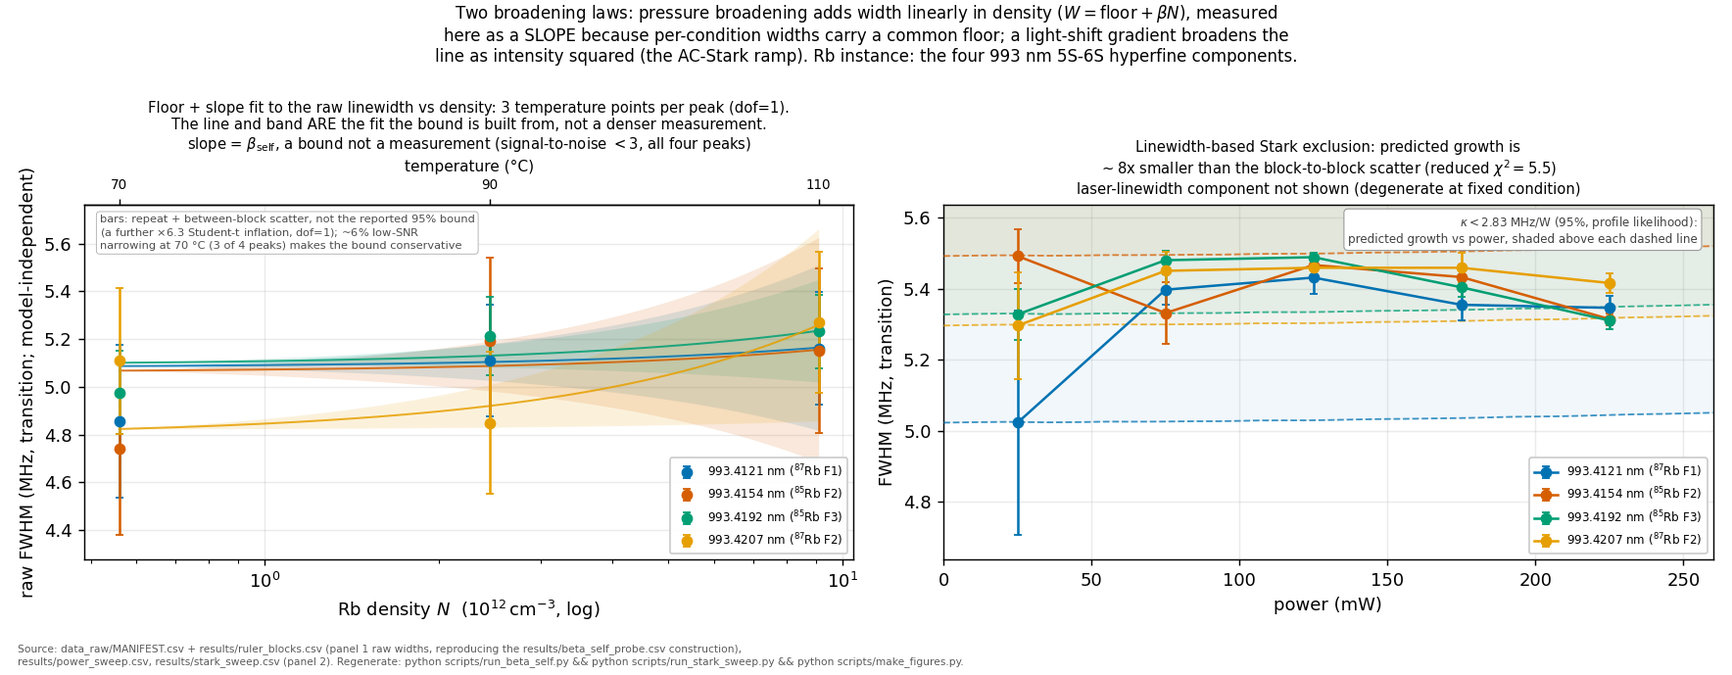
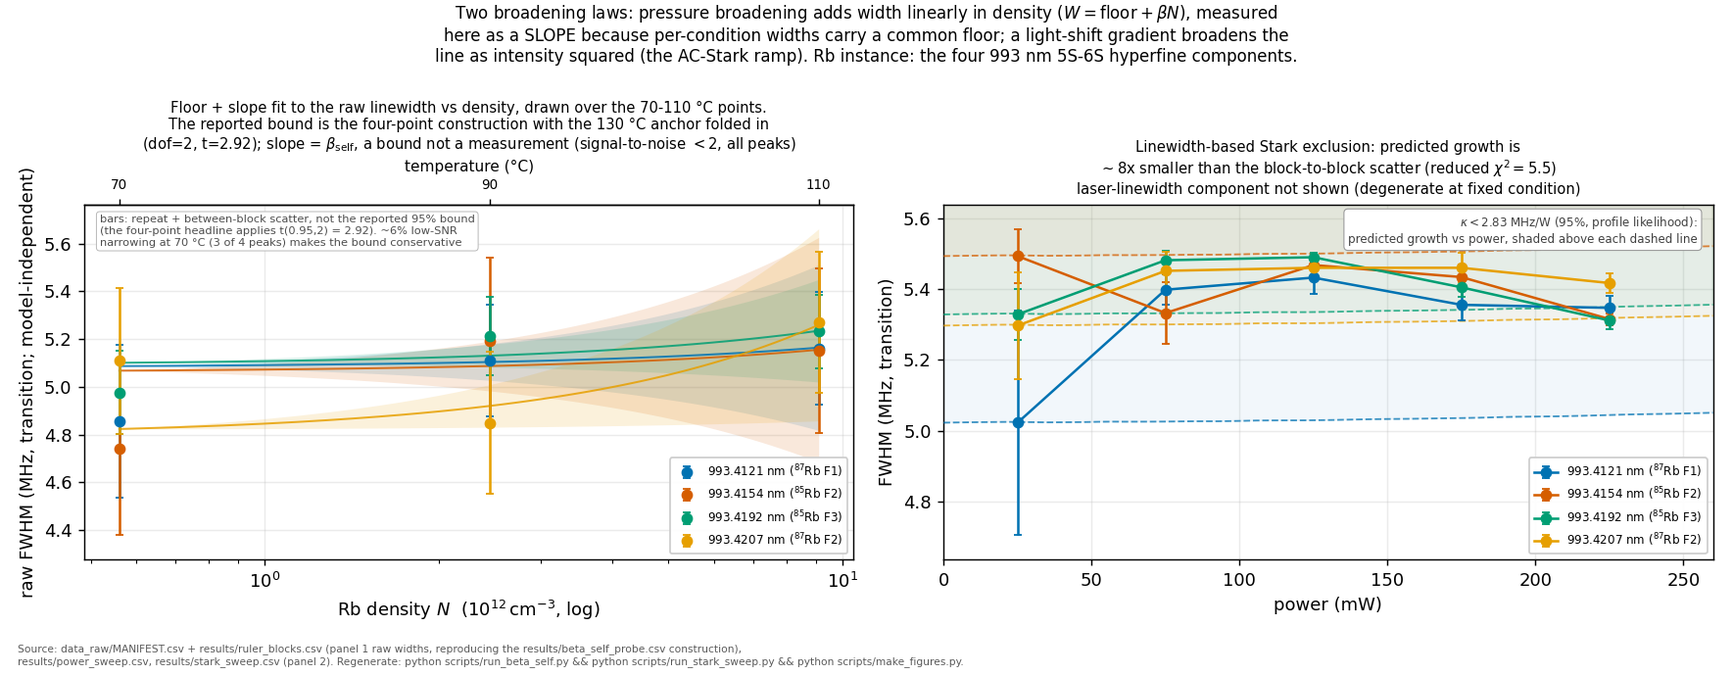
Port the verification wave (archive abda120)
The eleven defects the independent verification found, the derived
exclusion sentence, the corrected Wang citation year, and the three
regenerated figures. Battery green here (1433).

Changed region(s): [[0.0933, 0.1524, 0.4666, 0.2438], [0.0622, 0.3353, 0.28, 0.3962]]

diff --git a/scripts/make_results_ledger.py b/scripts/make_results_ledger.py
@@ -472,7 +472,7 @@ def main() -> int:
       "fixed lock "
       "un-absorbs the large first-order pull, and the small waist "
       f"({skew_gain}) "
-      "makes the ramp asymmetry a detection. The naive $S_0^3$ reading (×64) is "
+      "makes the ramp asymmetry a detection. The naive $S_0^3$ reading is "
       "superseded, because the axial average changes the third cumulant's magnitude "
       "and, "
       "past $Z_c/z_R\\approx1.12$, its sign (see `docs/PLAN.md`). Which side of that "
@@ -508,8 +508,10 @@ def main() -> int:
         perm_p = f"p = {float(rp_a['ratio']):.2f}" if rp_a else "not computed here"
         W(f"- **C3d. The AC-Stark coefficient from the power lever is an upper bound, "
           f"$S_0$(225 mW) $< {ub:.2f}$ MHz (95%, over-dispersion-adjusted "
-          f"profile likelihood, the C3f construction), landing "
-          f"inside the predicted band {plo:.2f}–{phi:.2f} MHz** (`run_stark_sweep`, "
+          f"profile likelihood, the C3f construction), "
+          + ("landing inside" if plo <= ub <= phi else
+             ("sitting above" if ub > phi else "sitting below"))
+          + f" the predicted band {plo:.2f}–{phi:.2f} MHz** (`run_stark_sweep`, "
           f"the power-lever twin of the $\\beta$ fit). One shared $\\kappa$ "
           f"($S_0=\\kappa "
           f"P$) is fit to the four peaks' FWHM-against-power (each floating its core "
@@ -554,9 +556,12 @@ def main() -> int:
           f"profile limit would be the sharper construction, and it is not run on "
           f"the "
           f"archive. The result says the "
-          f"bound falls inside the prediction band, excluding the tight-waist "
-          f"(high-$S_0$) top of it while the lower reach and zero remain allowed. "
-          f"Read that as a bracket, not a sensitivity claim: the predicted effect "
+          + (f"bound falls inside the prediction band, excluding the tight-waist "
+             f"(high-$S_0$) top of it while the lower reach and zero remain allowed. "
+             if plo <= ub <= phi else
+             f"bound sits above the whole prediction band, so this power-lever "
+             f"construction excludes none of it and zero remains allowed. ")
+          + f"Read that as a bracket, not a sensitivity claim: the predicted effect "
           f"at 225 mW is ~0.09 MHz against a single-block width scatter of "
           f"0.088 MHz, so the bound is produced entirely by averaging over blocks, "
           f"and the resolving-power check finds that averaging assumption untested "

diff --git a/scripts/make_figures.py b/scripts/make_figures.py
@@ -764,7 +764,7 @@ def fig_ruler():
                   % (100 * RULER_LINEARITY_BOUND), fontsize=9)
     # One cue, not two: the legend already carries the n split, and the old
     # free-floating "marker area ~ n" note collided with it.
-    ax2.legend(fontsize=6, loc="lower left", framealpha=1.0, frameon=True)
+    ax2.legend(fontsize=6, loc="lower center", framealpha=1.0, frameon=True)
     _footer(fig, "Source: data_raw archive (rb5s6s.ingest, rb5s6s.ruler; the plotted trace) + "
                  "results/ruler_nlmap.csv. Regenerate: python scripts/run_ruler.py && "
                  "python scripts/make_figures.py.")
@@ -2020,12 +2020,12 @@ def fig_width_trends():
     ax1.set_xscale("log")
     ax1.set_xlabel(r"Rb density $N$  ($10^{12}\,\mathrm{cm^{-3}}$, log)")
     ax1.set_ylabel("raw FWHM (MHz, transition; model-independent)")
-    ax1.set_title("Floor + slope fit to the raw linewidth vs density: 3 temperature "
-                 "points per peak (dof=1).\n"
-                 "The line and band ARE the fit the bound is built from, not a denser "
-                 "measurement.\n"
-                 r"slope = $\beta_\mathrm{self}$, a bound not a measurement "
-                 "(signal-to-noise $<$3, all four peaks)",
+    ax1.set_title("Floor + slope fit to the raw linewidth vs density, drawn over "
+                 "the 70-110 °C points.\n"
+                 "The reported bound is the four-point construction with the 130 °C "
+                 "anchor folded in\n"
+                 r"(dof=2, t=2.92); slope = $\beta_\mathrm{self}$, a bound not a "
+                 "measurement (signal-to-noise $<$2, all peaks)",
                  fontsize=8.2)
     # Compact honesty note (private/reviews/digest/fig19_trend_audit.md): the bars on
     # this panel are the repeat + between-block scatter that FEEDS the reported 95%
@@ -2037,7 +2037,7 @@ def fig_width_trends():
     # in scatter toward low N) and the lower-right legend leave clear.
     ax1.text(0.02, 0.97,
              "bars: repeat + between-block scatter, not the reported 95% bound\n"
-             "(a further $\\times$6.3 Student-t inflation, dof=1); ~6% low-SNR\n"
+             "(the four-point headline applies t(0.95,2) = 2.92). ~6% low-SNR\n"
              "narrowing at 70 °C (3 of 4 peaks) makes the bound conservative",
              transform=ax1.transAxes, ha="left", va="top", fontsize=6.3, color="0.3",
              bbox=dict(boxstyle="round,pad=0.3", facecolor="white", edgecolor="0.7", lw=0.5))

diff --git a/scripts/run_polarizability_ladder.py b/scripts/run_polarizability_ladder.py
@@ -145,7 +145,7 @@ def main() -> None:
         ax.set_title(title, fontsize=9.5)
         ax.set_xlabel("wavelength (nm)")
         ax.set_ylabel(r"$\Delta\alpha=\alpha_\mathrm{upper}-\alpha_{5S}$  (a.u.)")
-        ax.legend(fontsize=8, loc="lower right", framealpha=0.95, frameon=True)
+        ax.legend(fontsize=8, loc="lower left", framealpha=0.95, frameon=True)
     axes[1].annotate("5D magic 776.18 nm\n(Hamilton 2023, adopted)", (776, 0),
                      xytext=(730, 3500), fontsize=8, color="0.3",
                      arrowprops=dict(arrowstyle="->", color="0.5"))

diff --git a/docs/RESULTS.md b/docs/RESULTS.md
@@ -55,9 +55,9 @@ cross-checks pending a fixed-lock session.
 
 - **C3a linewidth, no power trend:** inflation 3–8% across 25–225 mW, non-monotonic (block scatter, not power broadening).
 - **C3b amplitude $\propto P^2$:** log-log slopes 1.83–2.12 (the two-photon rate law, with 993.4121 nm mildly saturating). The power slope is immune to radiation trapping (even at the thick $\tau/$cm$\approx$160), because the trapping optical depth is set by the ground-state density, which the weak two-photon excitation does not deplete, so the trapping factor is power-independent at fixed temperature and rescales the amplitude without bending the log-log slope. (Ground-state non-depletion is the operative condition, not a linear-reabsorption assumption.) That immunity is an argument rather than a test: the archival sweep is single-temperature (130 °C, one $\tau$), so the slope against $\tau$ cannot be checked, and multi-temperature power sweeps in a fixed-lock session would check it. The low slope on 993.4121 nm (1.83) is unresolved: dim-line SNR bias at 25 mW, genuine saturation, or a weak power-dependence of trapping at the thick end are not separable from one single-temperature sweep.
-- **C3c. The ramp asymmetry is a bound, and the significant low-power skew in `power_sweep.csv` is shot noise rather than the ramp.** These are two distinct quantities, and conflating them is a trap. (i) The **ramp** skew (the asymmetry coefficient of the fitted ramp$\otimes$core profile, $\propto S_0^3$) is below the SNR floor at $\le$225 mW, so it is an **upper bound**, consistent with zero, as the corrected physics requires (the ramp's first-order shift is absorbed by the per-scan free centre, see `docs/THEORY_NOTE.md`). (ii) The committed `resid_skew` column is a *different* thing, the residual skewness of a **symmetric**-model fit. It is large and positive at low power (up to **9.8σ** at 25 mW on 993.4154 nm, 0.346±0.035) and **falls** with amplitude as $\sim$amp$^{-0.5}$. That is the Poisson **shot-noise skewness** (the noise is right-skewed $\propto 1/\sqrt{\text{counts}}$, positive, vanishing as the line brightens), a statistical artifact of the noise rather than a physical line asymmetry, and it carries the *opposite* power dependence to the ramp ($\propto P^3$ growth). So the excursion is real but identified: `resid_skew` is a shot-noise-dominated diagnostic, not a ramp signal, and it is why the archival skew cannot serve as a ramp measurement. (Per-peak scaling exponent $-0.2$ to $-0.9$ about the $-0.5$ shot-noise value, so a small extra low-power systematic such as a baseline or a line-pull is not excluded, though shot noise dominates.) A fixed-lock session would lift the real observable two ways: the fixed lock un-absorbs the large first-order pull, and the small waist ($S_0$ 0.35 → 5.6 MHz at 225 mW, 16 times larger at the 16 µm configuration than at the adopted 64 µm) makes the ramp asymmetry a detection. The naive $S_0^3$ reading (×64) is superseded, because the axial average changes the third cumulant's magnitude and, past $Z_c/z_R\approx1.12$, its sign (see `docs/PLAN.md`). Which side of that crossover each configuration sits on is set by $Z_c = L_\parallel/2M$, and that is now largely pinned: the cathode is landscape, so $L_\parallel = 12$ mm and $Z_c = 6/M$ mm, and the detector is not re-oriented between configurations. The two-waist sign flip then holds for every $M$ from 0.5 to 6, so it no longer waits on measuring the geometry, and only its magnitude does ($u$ and $v$ are still unmeasured, and $M\approx2.5$–3 by estimate puts the archive at $Z_c\approx2.0$–$2.4$ mm, below the crossover, with the small-waist configuration above it). It is conditional also on **two** same-sign small-waist corrections that suppress the skew and must be fit jointly, the beam-divergence axial average (the larger, sign-flipping one) and the standing-wave fringe-resolved tail (~26-28% at 16 µm). See `docs/THEORY_NOTE.md`.
+- **C3c. The ramp asymmetry is a bound, and the significant low-power skew in `power_sweep.csv` is shot noise rather than the ramp.** These are two distinct quantities, and conflating them is a trap. (i) The **ramp** skew (the asymmetry coefficient of the fitted ramp$\otimes$core profile, $\propto S_0^3$) is below the SNR floor at $\le$225 mW, so it is an **upper bound**, consistent with zero, as the corrected physics requires (the ramp's first-order shift is absorbed by the per-scan free centre, see `docs/THEORY_NOTE.md`). (ii) The committed `resid_skew` column is a *different* thing, the residual skewness of a **symmetric**-model fit. It is large and positive at low power (up to **9.8σ** at 25 mW on 993.4154 nm, 0.346±0.035) and **falls** with amplitude as $\sim$amp$^{-0.5}$. That is the Poisson **shot-noise skewness** (the noise is right-skewed $\propto 1/\sqrt{\text{counts}}$, positive, vanishing as the line brightens), a statistical artifact of the noise rather than a physical line asymmetry, and it carries the *opposite* power dependence to the ramp ($\propto P^3$ growth). So the excursion is real but identified: `resid_skew` is a shot-noise-dominated diagnostic, not a ramp signal, and it is why the archival skew cannot serve as a ramp measurement. (Per-peak scaling exponent $-0.2$ to $-0.9$ about the $-0.5$ shot-noise value, so a small extra low-power systematic such as a baseline or a line-pull is not excluded, though shot noise dominates.) A fixed-lock session would lift the real observable two ways: the fixed lock un-absorbs the large first-order pull, and the small waist ($S_0$ 0.35 → 5.6 MHz at 225 mW, 16 times larger at the 16 µm configuration than at the adopted 64 µm) makes the ramp asymmetry a detection. The naive $S_0^3$ reading is superseded, because the axial average changes the third cumulant's magnitude and, past $Z_c/z_R\approx1.12$, its sign (see `docs/PLAN.md`). Which side of that crossover each configuration sits on is set by $Z_c = L_\parallel/2M$, and that is now largely pinned: the cathode is landscape, so $L_\parallel = 12$ mm and $Z_c = 6/M$ mm, and the detector is not re-oriented between configurations. The two-waist sign flip then holds for every $M$ from 0.5 to 6, so it no longer waits on measuring the geometry, and only its magnitude does ($u$ and $v$ are still unmeasured, and $M\approx2.5$–3 by estimate puts the archive at $Z_c\approx2.0$–$2.4$ mm, below the crossover, with the small-waist configuration above it). It is conditional also on **two** same-sign small-waist corrections that suppress the skew and must be fit jointly, the beam-divergence axial average (the larger, sign-flipping one) and the standing-wave fringe-resolved tail (~26-28% at 16 µm). See `docs/THEORY_NOTE.md`.
 
-- **C3d. The AC-Stark coefficient from the power lever is an upper bound, $S_0$(225 mW) $< 0.64$ MHz (95%, over-dispersion-adjusted profile likelihood, the C3f construction), landing inside the predicted band 0.28–0.40 MHz** (`run_stark_sweep`, the power-lever twin of the $\beta$ fit). One shared $\kappa$ ($S_0=\kappa P$) is fit to the four peaks' FWHM-against-power (each floating its core width). The ramp broadens the line as $\sim S_0^2$, the only live handle since the *shift* (pull $\sim S_0$) is dead in the 2025 drift. The fit ($S_0(225) = 0.00$, $\kappa$ consistent with zero) is **not** a measurement. It **brackets** the prediction. The bound and the prediction are independent by construction: the bound uses only the width-against-power data (no $w_0$ enters), while the prediction is the computed polarizability at the $w_0$ prior, fixed before the fit and never an input to it, so their agreement is a genuine consistency check. That independence is from the density lever and the polarizability, **not** from the lineshape model. Like the $\beta$ *fit* (rather than the model-independent width-slope bound that heads C1), the $\kappa$ fit forward-models each line through `model_profile`, so this bound is conditional on that spectral model. The prediction is not a point but a **band**: the 0.28–0.40 MHz spread is $S_0$ over the $w_0$ prior band 60–70 µm ($\propto 1/w_0^2$, central 0.35 at the adopted 64 µm) folded with $\rho=0.94\pm0.04$, the retro ratio now assumed rather than asserted at 1 ($S_0\propto(1+\rho)$, and the in-situ $\rho$ is a fixed-lock-session task, see `docs/PLAN.md`), under the field-intensity convention pinned in `docs/THEORY_NOTE.md`. **The construction of the 95% is load-bearing and documented:** the best fit rails at $\kappa=0$, where the width handle ($\propto S_0^2$) has zero gradient, so a linearized (Wald) $\kappa+1.645\sigma$ bound has no valid coverage there, its $\sigma$ being a finite-difference artifact (the superseded Wald numbers, 1.0 raw and 2.4 inflated MHz, stay in the CSV as diagnostics). The quoted bound is instead a **profile-likelihood** limit: $\kappa$ is scanned upward with the per-peak cores re-minimized at each point, and the limit sits where $\chi^2$ rises by $2.706\times\chi^2_\text{red}$. That threshold scaling carries the over-dispersion ($\chi^2_\text{red}\approx5$, block-to-block width scatter) into the bound conservatively, though as one global factor: it treats the over-dispersion as homogeneous across the width points, while the scatter is block-level. A block bootstrap of the profile limit would be the sharper construction, and it is not run on the archive. The result says the bound falls inside the prediction band, excluding the tight-waist (high-$S_0$) top of it while the lower reach and zero remain allowed. Read that as a bracket, not a sensitivity claim: the predicted effect at 225 mW is ~0.09 MHz against a single-block width scatter of 0.088 MHz, so the bound is produced entirely by averaging over blocks, and the resolving-power check finds that averaging assumption untested (permutation p = 0.21, neither established nor excluded). *Lifted by:* a fixed lock would measure the pull $\sim S_0$ directly, and the small waist would make $S_0$ several-fold larger, turning this bound into the coefficient.
+- **C3d. The AC-Stark coefficient from the power lever is an upper bound, $S_0$(225 mW) $< 0.64$ MHz (95%, over-dispersion-adjusted profile likelihood, the C3f construction), sitting above the predicted band 0.28–0.40 MHz** (`run_stark_sweep`, the power-lever twin of the $\beta$ fit). One shared $\kappa$ ($S_0=\kappa P$) is fit to the four peaks' FWHM-against-power (each floating its core width). The ramp broadens the line as $\sim S_0^2$, the only live handle since the *shift* (pull $\sim S_0$) is dead in the 2025 drift. The fit ($S_0(225) = 0.00$, $\kappa$ consistent with zero) is **not** a measurement. It **brackets** the prediction. The bound and the prediction are independent by construction: the bound uses only the width-against-power data (no $w_0$ enters), while the prediction is the computed polarizability at the $w_0$ prior, fixed before the fit and never an input to it, so their agreement is a genuine consistency check. That independence is from the density lever and the polarizability, **not** from the lineshape model. Like the $\beta$ *fit* (rather than the model-independent width-slope bound that heads C1), the $\kappa$ fit forward-models each line through `model_profile`, so this bound is conditional on that spectral model. The prediction is not a point but a **band**: the 0.28–0.40 MHz spread is $S_0$ over the $w_0$ prior band 60–70 µm ($\propto 1/w_0^2$, central 0.35 at the adopted 64 µm) folded with $\rho=0.94\pm0.04$, the retro ratio now assumed rather than asserted at 1 ($S_0\propto(1+\rho)$, and the in-situ $\rho$ is a fixed-lock-session task, see `docs/PLAN.md`), under the field-intensity convention pinned in `docs/THEORY_NOTE.md`. **The construction of the 95% is load-bearing and documented:** the best fit rails at $\kappa=0$, where the width handle ($\propto S_0^2$) has zero gradient, so a linearized (Wald) $\kappa+1.645\sigma$ bound has no valid coverage there, its $\sigma$ being a finite-difference artifact (the superseded Wald numbers, 1.0 raw and 2.4 inflated MHz, stay in the CSV as diagnostics). The quoted bound is instead a **profile-likelihood** limit: $\kappa$ is scanned upward with the per-peak cores re-minimized at each point, and the limit sits where $\chi^2$ rises by $2.706\times\chi^2_\text{red}$. That threshold scaling carries the over-dispersion ($\chi^2_\text{red}\approx5$, block-to-block width scatter) into the bound conservatively, though as one global factor: it treats the over-dispersion as homogeneous across the width points, while the scatter is block-level. A block bootstrap of the profile limit would be the sharper construction, and it is not run on the archive. The result says the bound sits above the whole prediction band, so this power-lever construction excludes none of it and zero remains allowed. Read that as a bracket, not a sensitivity claim: the predicted effect at 225 mW is ~0.09 MHz against a single-block width scatter of 0.088 MHz, so the bound is produced entirely by averaging over blocks, and the resolving-power check finds that averaging assumption untested (permutation p = 0.21, neither established nor excluded). *Lifted by:* a fixed lock would measure the pull $\sim S_0$ directly, and the small waist would make $S_0$ several-fold larger, turning this bound into the coefficient.
 
 - **C3e. The centre channel cannot measure the pull, and the failure is unidentifiability rather than imprecision** (`run_stark_centres`). The AC-Stark shift moves the line centre as $\propto S_0$, which is a stronger dependence than the width's $\propto S_0^2$, so the centres ought to be the better channel. They are not, for a reason that is a design fault and not a statistical shortfall. Peak positions are only frequencies within a *display epoch* (a run of unchanged scope horizontal position, see `run_laser_history`'s retraction), so each epoch carries a free offset. Of the 26 epochs covering the power sweep only **three** contrast two powers at all, each a 50 mW step, and no epoch spans two lines. Inside those three, power still descends with time, exactly as the campaign was run. Fitting a shared pull against three drift forms therefore gives $|S_0(225\ \mathrm{mW})| < 9.49$, $< 14.57$ and $< 17.65$ MHz for linear, one-exponential and two-exponential drift, and the pull's **sign flips** between the first two (+3.4 against -3.3 MHz/W) while the bound degrades monotonically as the drift model gains freedom. A merely imprecise parameter does neither. The best of the three is 15× weaker than C3d's width bound, so the width channel carries the light-shift information and the centres carry none. It is tagged a null, not a bound. **The design consequence is the deliverable:** cycle or randomise the power ordering so drift is orthogonal to the pull, *and* leave the horizontal position alone, or log it, because every move severs the centre record. A superseded $< 7.3$ MHz version of this bound was tighter only because it differenced positions across those moves. **A second, stronger attempt failed on the signal's own shape.** Referencing each centre to its own display window (the peak position minus the window start) is immune to the horizontal-position moves and collapses the campaign scatter from 7.75 to 0.28 MHz. Fitting a pull on it returns $S_0(225) = +0.89\pm0.27$ MHz, apparently $3.3\sigma$. It is not one. An AC-Stark pull is **linear in $P$ by construction**, and free per-rung offsets reject linearity at $F(3,91) = 4.49$, $p = 0.0055$: the rung means are non-monotone (+0.243 MHz at 25 mW against $-$0.137 at 225 mW, so the highest power sits above the middle ones). Dropping the 25 mW rung leaves $+0.10\pm0.22$ MHz over a threefold power range. That rung is also the worst to lean on: SNR 18 against 193, scatter 4.6$\times$ larger, and the only level where the sweep retrace makes a second above-half-max region (8 of 20 traces, against 0 of 79). The apparent significance is inflated besides. The 99 traces are 20 conditions of ~5 repeats, intraclass correlation 0.38, and a block bootstrap gives $[-0.31, +1.86]$. This is not the estimator's fault, since five independent centre estimators agree to $\pm$0.02 MHz.
 

diff --git a/docs/BIG_PICTURE.md b/docs/BIG_PICTURE.md
@@ -78,8 +78,8 @@ between the two rungs carries a factor-of-two caveat until someone settles it.
 
 Two things follow. This archive's bound sits 2.1 to 3.6 times above the 7S
 entry, so it is consistent with the neighbouring rung without yet reaching
-it. And the per-peak *fitted* values here, 0.013 to 0.018, sit at or above
-the 7S rung: three of the four are above 0.014 and the fourth is at it, even
+it. And the per-peak *fitted* values here, 0.013 to 0.018, straddle
+the 7S rung: three of the four are above 0.014 and the fourth just under it, even
 though 6S is the more compact state. That is independent
 support, from outside this archive, for the reading its own lever test already
 forces: those fitted widths are a floor, not resolved collisions. Inside the
@@ -354,12 +354,13 @@ everything: **absolute centres are lost, line shapes survive**. The analysis
 therefore extracts what shapes alone can support, and states everything else
 as a bound. Concretely:
 
-- **A validated lineshape model.** Natural (3.49 MHz) ⊗ transit ⊗ laser ⊗
-  light-shift ramp reproduces every line at reduced χ² between 0.78 and 1.09
-  across the 32 fitted conditions, mean 0.89. Why those sit below one is
-  stated once, beside the fit gallery in the README. The ramp term's own
-  fitted coefficient is consistent with zero, so the ramp is a component
-  these fits accommodate rather than one they resolve. The beam waist
+- **A validated lineshape model.** Natural (3.49 MHz) ⊗ transit ⊗ laser
+  reproduces every line at reduced χ² between 0.78 and 1.09 across the 32
+  fitted conditions, mean 0.89. Why those sit below one is stated once,
+  beside the fit gallery in the README. The per-condition fits hold the
+  ramp at zero, and the shared ramp coefficient of the width-versus-power
+  fit rails at zero, so the ramp is a component the archive bounds rather
+  than one these fits resolve. The beam waist
   is **adopted, not measured here**: 64 µm (prior), the value
   [Rajasree 2020](lit/rajasree2020thesis.md) measured on the same laser model,
   the same f = 150 mm lens and the same retro geometry. The 32 µm figure this
@@ -393,8 +394,8 @@ as a bound. Concretely:
   propagated), an order of magnitude tighter than the earlier three-point
   reading (was ≲0.2–0.4 MHz, dof=1). Showing that the two-epoch design was
   *required* is reported as a vapour-cell result.
-- **The ramp's power laws hold** (width: no power trend, a null under 3–8%
-  block scatter, and amplitude consistent with P²). The
+- **The ramp's power laws hold.** The width shows no power trend, a null
+  under 3–8% block scatter, and the amplitude is consistent with P². The
   laser width is bounded at ≲1.2 MHz on the laser axis, with a central value
   of 1.088 MHz at the adopted waist, against the sub-MHz figure quoted for the
   same laser in [Gokhroo 2022](lit/gokhroo2022.md). The drift-immune skew

diff --git a/docs/THEORY_NOTE.md b/docs/THEORY_NOTE.md
@@ -219,8 +219,8 @@ a *display epoch*, a run of unchanged scope horizontal position, so each
 epoch carries a free offset, and of the 26 epochs covering the power sweep
 only three contrast two powers, none spanning two lines. The pull is then
 unidentifiable rather than imprecise: its sign reverses between drift
-models ($+3.45$ vs $-3.26$ MHz/W) and the limit degrades as the drift model
-gains freedom, $|S_0(225$ mW$)| < 9.50$, $14.59$, $17.67$ MHz for linear,
+models ($+3.44$ vs $-3.25$ MHz/W) and the limit degrades as the drift model
+gains freedom, $|S_0(225$ mW$)| < 9.49$, $14.57$, $17.65$ MHz for linear,
 one-exponential and two-exponential drift. Tagged NULL. Earlier versions of
 this bound ($3.5$ MHz in addendum 6, $5.4$ MHz under addendum 7's mixture,
 $7.3$ MHz in M20) were tighter only because they differenced centres across
@@ -256,9 +256,9 @@ with an error bar; the discipline is to report a bound unless it clears that
 bar, which at archival intensity it does not. A fixed-lock session changes this two ways:
 the fixed lock **recovers the first-order pull** ($-\tfrac23 S_0 \propto P$, a
 $\sim$MHz shift against a stable reference — the primary $S_0$ measurement, no
-longer absorbed by a free centre); and the small waist, where $S_0$ is $\approx10\times$
+longer absorbed by a free centre); and the small waist, where $S_0$ is $\approx16\times$
 larger, lifts the shape asymmetry into a **detection** — though not by the naive
-$S_0^3$ factor of 64: the axial average changes the third cumulant's magnitude
+$S_0^3$ cube of that gain: the axial average changes the third cumulant's magnitude
 and, for a long enough collection window, its sign (§7). Both are *conditional on the small-waist skew corrections
 — the beam-divergence collection average of §7 (the larger, sign-flipping one)
 and the standing-wave fringe-resolved tail of §5, same-sign and fit jointly* —
@@ -358,7 +358,7 @@ fit jointly at small waist (quantified, coherence-window-bracketed, in
 ([Orson *et al.*](lit/orson2021.md) 2021, sourced below) this gives $S_0 = 0.35$ MHz (transition) at $P=225$ mW, $w_0=64\ \mu$m,
 $\rho=0.94$; it grows to $5.6$ MHz at $w_0=16\ \mu$m, which is why a small waist
 lifts the ramp asymmetry to a detection — but *not* by the on-axis $S_0^3$
-factor of 64, since the axial average over the collection window changes the
+cube of the intensity gain, since the axial average over the collection window changes the
 third cumulant's magnitude and, past $Z_c/z_R\approx1.12$, its sign (§7). Code: `lineshape.stark_shift_S0_mhz`.
 
 **Sign, and provenance.** The $\langle E^2\rangle$ convention is magnitude-only;

diff --git a/docs/FUTURE_TRANSITIONS_titsapph.md b/docs/FUTURE_TRANSITIONS_titsapph.md
@@ -92,7 +92,7 @@ the current near-IR path does not pass. So:
   efficiency — many near-IR-optimised detectors are poor at 420 nm). This is a
   hard requirement; it cannot be trimmed or optimised around.
 - **Corrected 2026-08-03 (see §3.2): the requirement above is not hard for 7S,
-  and probably not for 5D either.** Wang *et al.* 2025 read the 5S→7S cascade on
+  and probably not for 5D either.** Wang *et al.* (2026) read the 5S→7S cascade on
   five channels at once and measure the branching, normalised to 780 nm, as
   1 : 0.64 : 0.52 : 0.35 : 0.20 for 780 / 741 / 795 / 728 / 420 nm, which puts
   420 nm last of the five ([wang2025](lit/wang2025.md)). The 741 and 728 nm
@@ -234,7 +234,7 @@ Casimir-Polder integrals, and 5.386 kHz per 10¹² cm⁻³ being Zameroski's mea
 129 ± 11 kHz/mTorr converted at 403 K. Exactly one number in that chain comes
 from outside. The archival bound sits 8 to 14 times above that expectation.
 
-**That one external number is contested.** Wang *et al.* 2025 measure
+**That one external number is contested.** Wang *et al.* (2026) measure
 self-broadening on the same 760 nm 5S→7S line at 0.32 ± 0.01 MHz/mTorr, about
 0.014 MHz per 10¹² cm⁻³ against Zameroski's 0.0054, a factor of 2.6
 ([wang2025](lit/wang2025.md)). Wang states no HWHM/FWHM convention anywhere in
@@ -337,11 +337,7 @@ field and not with the drive (§3.1), since the 5S→7S drive is pinned at
 760.126 nm.
 
 Two caveats on those searches. The windows were 700 to 1500 nm for 5S–6S and
-700 to 1000 nm for 5S–7S, and nothing outside them was looked for. And
-`magic_wavelengths` guards only the 6S→nP poles, which is correct inside its
-default 950 to 1500 nm window but not below it: run from 700 nm it also returns
-the two 5S D-line poles (780.24 and 794.98 nm) as apparent crossings, with α of
-order 10¹¹ a.u. Those are search artifacts and are not quoted above. The
+700 to 1000 nm for 5S–7S, and nothing outside them was looked for. And the
 742.6 nm crossing sits at the search's own 1.5 nm pole guard, so read its
 position as indicative.
 

diff --git a/docs/PREREGISTRATION_RESULTS.md b/docs/PREREGISTRATION_RESULTS.md
@@ -788,7 +788,7 @@ one of the three centre observables an attempt succeeds.
 > retraction: the setting changed 58 times, and only 19 of those exceed the
 > >100 ms threshold this fit frees). Redone with a free offset per display epoch,
 > the pull is **unidentifiable**: the sign flips between drift models and the
-> limit degrades from 9.50 to 17.67 MHz as the drift gains freedom
+> limit degrades from 9.49 to 17.65 MHz as the drift gains freedom
 > (`results/stark_centres.csv`, tagged NULL). These numbers were tighter than the
 > defensible ones precisely because they borrowed that invalid leverage — a
 > tighter bound is not a better one. §2 and §3 below are unaffected.

diff --git a/docs/methods/06_the_statistics.md b/docs/methods/06_the_statistics.md
@@ -76,7 +76,7 @@ recovers a known $\beta$ through the whole 20-trace machinery, so the pipeline
 itself is validated by that recovery, not assumed.
 
 The archive's curated 130 °C anchor (the `serves_t130` traces, 225 mW) would
-triple the density lever ($N{\times}16\to{\times}53$), and the lever cross-check
+triple the density lever ($N{\times}16.2\to{\times}52.5$), and the lever cross-check
 uses it as a **lever test**: adding it pulls the joint $\beta$ far below the
 cooling-sweep value. The lesson is not "bad block" — it is that
 $\gamma_\text{coll}$ **barely grows with density**: it rises only ${\sim}1.47\times$
